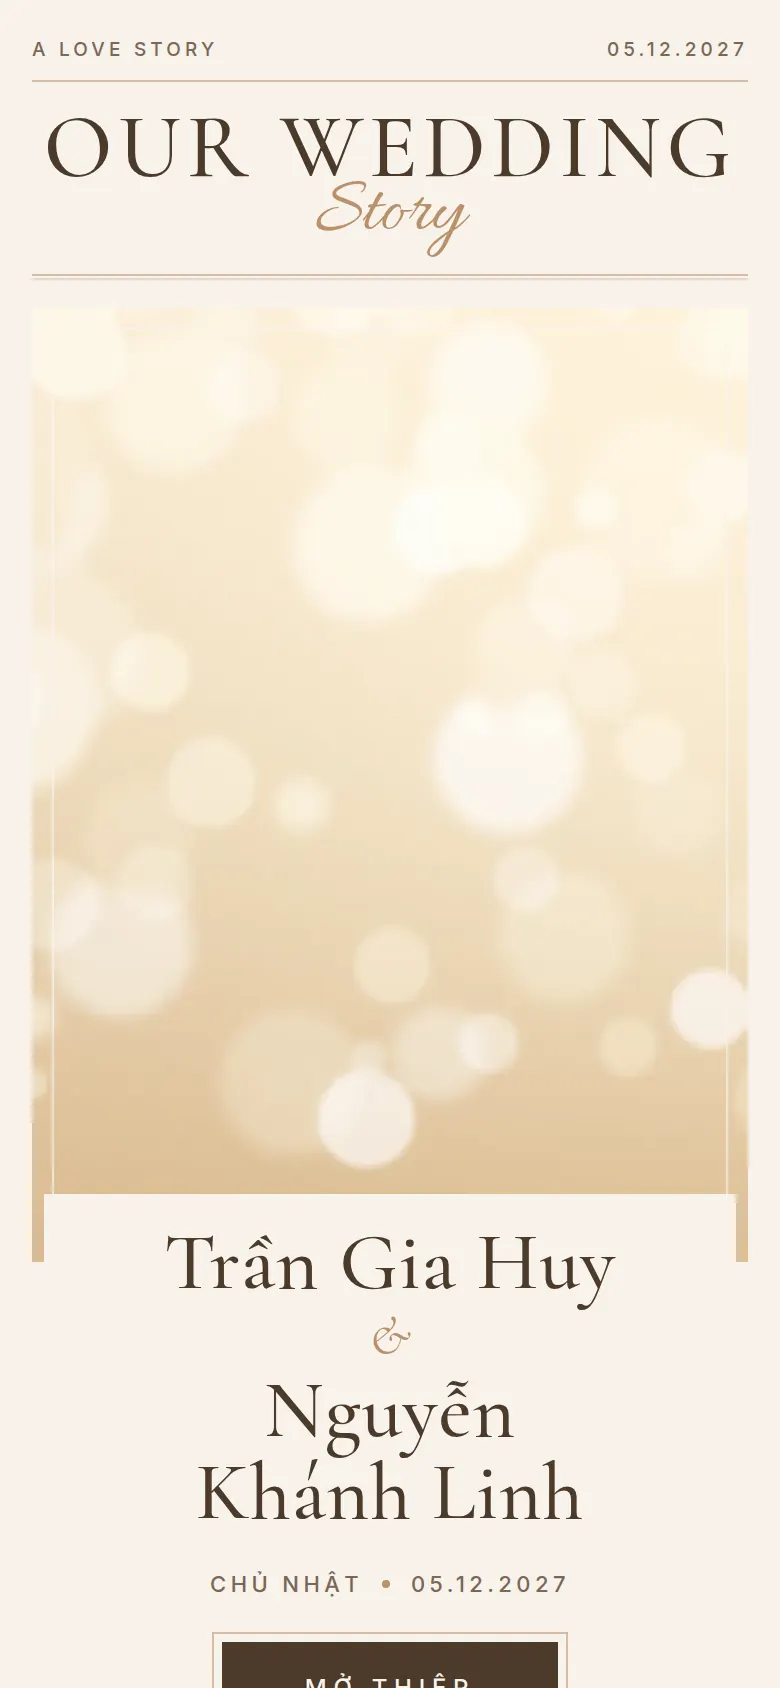
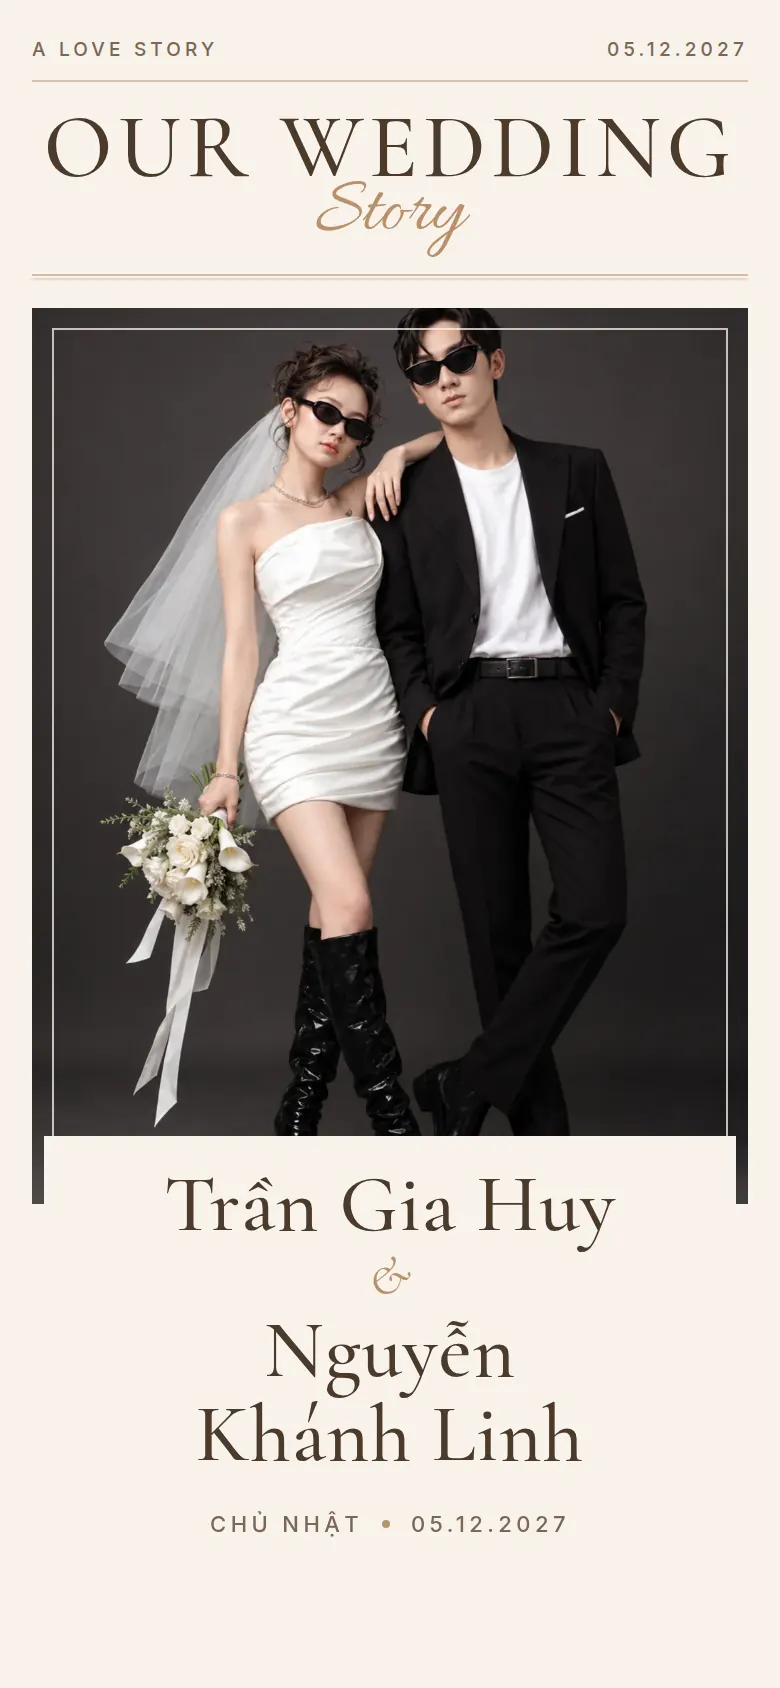
feat: fictional AI wedding photos for the Our Wedding Story showroom demo
LAUNCH-P0-04 / OWS-V2-01. Replaces the abstract mood placeholders in the
public Our Wedding Story demo with a ten-frame set of AI-generated fictional
wedding photography. Showroom demo only — never a fallback for any customer
invitation, and no renderer file is touched.

Ten source PNGs (verified against the Product Owner's photo-set.json by
pixel dimensions and SHA-256) optimized with Pillow 12.1.1 quality=86,
method=6, dimensions and orientation preserved: 17.6 MB of PNG becomes
0.64 MB of WebP. The source PNGs stay local and uncommitted; each photo
exists once on disk and slots that reuse one reference the same file.

Wired for wedding.our-wedding-story.v2 only, through
DEMO_TEMPLATE_SLOT_PHOTO_SETS and keyed by registeredRendererKey(), because
the renderer static boundary forbids the v2 key literal outside the
renderer's own files. v1 keeps the abstract mood images. Mapping, checked
against the v2 editor manifest's declared slots and maxCount: coverPhoto 01;
groomPortrait 04 and bridePortrait 03, each person-bound so a frame always
follows its own person in COMMON, GROOM and BRIDE; storyPhoto 09 (the slot
is declared LANDSCAPE); gallery all ten (no maxCount) as 05, 06, 07, 08, 02,
09, 03, 04, 01, 10, so each chunk of three keeps a portrait for the large
slot and the two landscapes fall to small slots; thankYouPhoto 10.

The two showroom screenshots are re-captured from the real v2 demo (headless
Chrome over CDP, true 390x844 viewport at 2x, demo bar hidden, WebP q78);
[…]

diff --git a/lib/showroom/__tests__/showroom-demo.test.ts b/lib/showroom/__tests__/showroom-demo.test.ts
@@ -62,8 +62,15 @@ describe("LAUNCH-P0-04 showroom demos run the real pipeline", () => {
       expect(data.sections.music).toBe(false);
       if (Object.hasOwn(DEMO_LEGACY_ROLE_PHOTO_SETS, template.rendererKey)) continue;
       expect(data.viewModel.media.portrait).toStrictEqual({});
-      expect(data.viewModel.media.templateSlots?.groomPortrait ?? []).toStrictEqual([]);
-      expect(data.viewModel.media.templateSlots?.bridePortrait ?? []).toStrictEqual([]);
+      // A person-bound portrait may come only from that renderer's own slot photo set
+      // (fictional people); a renderer without one keeps both portraits empty, because
+      // the abstract mood images must never pose as a person.
+      const slotSet = DEMO_TEMPLATE_SLOT_PHOTO_SETS[template.rendererKey];
+      const declared = (slot: string) => (slotSet?.[slot] ?? []).map((image) => `${DEMO_MEDIA_BASE_PATH}${image.file}`);
+      for (const slot of ["groomPortrait", "bridePortrait"]) {
+        const rendered = (data.viewModel.media.templateSlots?.[slot] ?? []).map((item) => (item as { url?: string }).url);
+        expect(rendered, `${template.rendererKey} ${slot}`).toStrictEqual(declared(slot));
+      }
     }
   });
 
@@ -166,22 +173,54 @@ describe("LAUNCH-P0-04 showroom demos run the real pipeline", () => {
     expect(demoCoupleFor("wedding.vietnamese-heritage.v1")).toMatchObject(DEMO_COUPLE);
   });
 
-  it("the Our Wedding Story demo runs v2 on exactly v1's abstract placeholder mapping (no new or borrowed photos)", async () => {
+  it("the Our Wedding Story demo runs v2 on its own fictional photo set, identical for every variant", async () => {
     const ows = PUBLIC_SHOWROOM_TEMPLATES.find((template) => template.templateCode === "our-wedding-story");
     expect(ows?.rendererKey).toBe("wedding.our-wedding-story.v2");
-    expect(Object.hasOwn(DEMO_TEMPLATE_SLOT_PHOTO_SETS, "wedding.our-wedding-story.v2")).toBe(false);
+    const set = DEMO_TEMPLATE_SLOT_PHOTO_SETS["wedding.our-wedding-story.v2"];
+    expect(set).toBeDefined();
+    if (set === undefined) return;
+    // v1 keeps the abstract mood images: the new photography is wired to v2 alone.
+    expect(Object.hasOwn(DEMO_TEMPLATE_SLOT_PHOTO_SETS, "wedding.our-wedding-story.v1")).toBe(false);
     expect(Object.hasOwn(DEMO_LEGACY_ROLE_PHOTO_SETS, "wedding.our-wedding-story.v2")).toBe(false);
+
+    const file = (slot: string, index = 0) => set[slot]?.[index]?.file;
+    expect(file("coverPhoto")).toBe("our-wedding-story/photos/01-cover-couple-fullbody.webp");
+    // Person-bound (OWS-01): the groom's frame is the groom's, the bride's is the bride's.
+    expect(file("groomPortrait")).toBe("our-wedding-story/photos/04-groom-portrait.webp");
+    expect(file("bridePortrait")).toBe("our-wedding-story/photos/03-bride-portrait.webp");
+    expect(file("storyPhoto")).toBe("our-wedding-story/photos/09-editorial-seated-wide.webp");
+    expect(file("thankYouPhoto")).toBe("our-wedding-story/photos/10-thank-you-couple.webp");
+    // All ten frames, each exactly once, in the approved album order.
+    expect(set.gallery?.map((image) => image.file)).toStrictEqual([
+      "our-wedding-story/photos/05-magazine-couple.webp",
+      "our-wedding-story/photos/06-camera-couple.webp",
+      "our-wedding-story/photos/07-fashion-couple-wide.webp",
+      "our-wedding-story/photos/08-intimate-veil-couple.webp",
+      "our-wedding-story/photos/02-veil-couple.webp",
+      "our-wedding-story/photos/09-editorial-seated-wide.webp",
+      "our-wedding-story/photos/03-bride-portrait.webp",
+      "our-wedding-story/photos/04-groom-portrait.webp",
+      "our-wedding-story/photos/01-cover-couple-fullbody.webp",
+      "our-wedding-story/photos/10-thank-you-couple.webp",
+    ]);
+    expect(new Set(set.gallery?.map((image) => image.file)).size).toBe(10);
+    // The slot declared LANDSCAPE gets a real landscape frame.
+    expect(set.storyPhoto?.[0]?.orientation).toBe("LANDSCAPE");
+
     for (const variant of INVITATION_VARIANTS) {
       const v2 = await buildDemoRenderData("wedding.our-wedding-story.v2", variant);
-      const v1 = await buildDemoRenderData("wedding.our-wedding-story.v1", variant);
-      expect(v2.viewModel.media.templateSlots, variant).toStrictEqual(v1.viewModel.media.templateSlots);
-      const urls = Object.values(v2.viewModel.media.templateSlots ?? {}).flat().map((item) => (item as { url?: string }).url);
+      const slots = v2.viewModel.media.templateSlots ?? {};
+      const urls = Object.values(slots).flat().map((item) => (item as { url?: string }).url);
       expect(urls.length).toBeGreaterThan(0);
-      for (const url of urls) expect(url, variant).toMatch(/^\/showroom\/demo\/mood-[\w-]+\.webp$/);
-      // Person-bound portraits stay empty: abstract images never pose as a person.
-      expect(v2.viewModel.media.templateSlots?.groomPortrait ?? []).toStrictEqual([]);
-      expect(v2.viewModel.media.templateSlots?.bridePortrait ?? []).toStrictEqual([]);
-      expect([v2.viewModel.people.primary.name, v2.viewModel.people.secondary.name]).toStrictEqual([v1.viewModel.people.primary.name, v1.viewModel.people.secondary.name]);
+      // Every frame is one of the new local WebP photographs — never a mood image.
+      for (const url of urls) expect(url, variant).toMatch(/^\/showroom\/demo\/our-wedding-story\/photos\/\d\d-[\w-]+\.webp$/);
+      expect((slots.groomPortrait ?? []).map((item) => (item as { url?: string }).url), variant).toStrictEqual([
+        "/showroom/demo/our-wedding-story/photos/04-groom-portrait.webp",
+      ]);
+      expect((slots.bridePortrait ?? []).map((item) => (item as { url?: string }).url), variant).toStrictEqual([
+        "/showroom/demo/our-wedding-story/photos/03-bride-portrait.webp",
+      ]);
+      expect((slots.gallery ?? []).length, variant).toBe(10);
     }
   });
 

diff --git a/lib/showroom/demo/demo-media.ts b/lib/showroom/demo/demo-media.ts
@@ -137,6 +137,22 @@ const RM_PHOTOS = Object.freeze(
   ),
 );
 
+/** Our Wedding Story portraits are 1086×1448 (3:4); 07 and 09 are 1448×1086 landscapes. */
+const OWS_PHOTOS = Object.freeze(
+  [
+    ["01-cover-couple-fullbody"],
+    ["02-veil-couple"],
+    ["03-bride-portrait"],
+    ["04-groom-portrait"],
+    ["05-magazine-couple"],
+    ["06-camera-couple"],
+    ["07-fashion-couple-wide", "LANDSCAPE"],
+    ["08-intimate-veil-couple"],
+    ["09-editorial-seated-wide", "LANDSCAPE"],
+    ["10-thank-you-couple"],
+  ].map(([name, orientation]) => folderPhoto("our-wedding-story", name ?? "", orientation === "LANDSCAPE" ? "LANDSCAPE" : "PORTRAIT")),
+);
+
 /** Numbered photo `n` (1-based, the file name prefix) of a set. */
 function nth(photos: readonly DemoImage[], n: number): DemoImage {
   const photo = photos[n - 1];
@@ -183,6 +199,23 @@ export const DEMO_TEMPLATE_SLOT_PHOTO_SETS: Readonly<Record<string, DemoTemplate
     // solos side by side, and the two landscapes last, leading into the Thank You photo.
     gallery: Object.freeze([6, 7, 9, 8, 1, 4, 3, 5, 2, 10].map((n) => nth(RM_PHOTOS, n))),
     thankYouPhoto: Object.freeze([nth(RM_PHOTOS, 10)]),
+  }),
+  // OWS-V2-01: the public demo runs Our Wedding Story v2. Its key literal is forbidden in
+  // lib/ by the renderer static boundary, so it is resolved from the production registry.
+  [registeredRendererKey("our-wedding-story", 2)]: Object.freeze({
+    coverPhoto: Object.freeze([nth(OWS_PHOTOS, 1)]),
+    // Person-bound (OWS-01): each portrait follows its own person, never a layout position.
+    groomPortrait: Object.freeze([nth(OWS_PHOTOS, 4)]),
+    bridePortrait: Object.freeze([nth(OWS_PHOTOS, 3)]),
+    // The slot is declared LANDSCAPE: 09 is one of the two landscape frames.
+    storyPhoto: Object.freeze([nth(OWS_PHOTOS, 9)]),
+    // All ten (the slot has no maxCount). The magazine rhythm takes them in chunks of three
+    // (one large portrait-preferred + two small) and closes on a single wide row, so each
+    // chunk here keeps a portrait for the large slot and the two landscapes (07, 09) fall to
+    // small slots. It opens on frames not already shown above, then the bride and groom solos,
+    // and ends on the cover and the Thank You frame.
+    gallery: Object.freeze([5, 6, 7, 8, 2, 9, 3, 4, 1, 10].map((n) => nth(OWS_PHOTOS, n))),
+    thankYouPhoto: Object.freeze([nth(OWS_PHOTOS, 10)]),
   }),
 });
 

diff --git a/lib/showroom/demo/ASSETS.md b/lib/showroom/demo/ASSETS.md
@@ -87,6 +87,40 @@ Wired only for `wedding.romantic-minimal.v1` through `DEMO_TEMPLATE_SLOT_PHOTO_S
 | 09-wedding-couple-steps.webp | 1024×1536 | 145 KB | a22bdc4049a3332bdeb3a6a42edd1bca83b730e1b5181184a1528ed1b8a2d673 |
 | 10-thank-you-ivory-bow.webp | 1448×1086 | 180 KB | 2e2e61c0207e64053edc8027429496a85ca18c18f9557d59d51a7ef6aa885ac4 |
 
+## Our Wedding Story demo photos — `public/showroom/demo/our-wedding-story/photos/`
+
+AI-generated **fictional** wedding photographs created for the WeddingClick showroom on 2026-10-14 from Product Owner-supplied visual references. They are newly generated people: they show no real customer, couple or wedding and must never be represented as one, or as client portfolio work. The user-supplied reference photos were style inspiration only — they are not published here, not redistributed, and no third-party watermark or logo is included. Source metadata (original file names, PNG sizes, pixel dimensions and SHA-256) is in the Product Owner's `photo-set.json` next to the PNGs.
+
+Only the WebP files below are committed and served. Pillow 12.1.1, `quality=86, method=6`, same pixel dimensions as the PNGs (portraits 1086×1448, landscapes 1448×1086), 10 source PNGs → 10 optimized WebPs, about 0.64 MB for all ten (the PNGs are about 17.6 MB). The source PNGs stay local and are not committed. Each photo exists once on disk; slots that reuse a photo reference the same file.
+
+Public showroom only — never a fallback for any customer invitation.
+
+Wired only for `wedding.our-wedding-story.v2` through `DEMO_TEMPLATE_SLOT_PHOTO_SETS` (`demo-media.ts`), keyed by `registeredRendererKey("our-wedding-story", 2)` because the renderer static boundary forbids the v2 key literal outside the renderer's own files. v1 keeps the abstract mood images. Mapping, against the v2 editor manifest's declared slots and `maxCount`:
+
+| Slot | maxCount | Photo |
+|---|---|---|
+| `coverPhoto` | 1 | 01 |
+| `groomPortrait` (person-bound) | 1 | 04 — the groom's own frame |
+| `bridePortrait` (person-bound) | 1 | 03 — the bride's own frame |
+| `storyPhoto` (declared LANDSCAPE) | 1 | 09 |
+| `gallery` | null (no limit) | all ten: 05, 06, 07, 08, 02, 09, 03, 04, 01, 10 |
+| `thankYouPhoto` | 1 | 10 |
+
+The person-bound portraits follow OWS-01: each photo stays with its own person in COMMON, GROOM and BRIDE; only the display order changes. The gallery uses all ten because the slot declares no `maxCount`. Its magazine rhythm takes the list in chunks of three (one large, portrait-preferred, plus two small) and closes on a single wide row, so each chunk keeps a portrait for the large slot and the two landscape frames (07, 09) fall to small slots. The renderer is unchanged: its tiles crop to the frame and the viewer shows every photo whole, landscapes included.
+
+| File | Size | Bytes | SHA-256 |
+|---|---|---|---|
+| 01-cover-couple-fullbody.webp | 1086×1448 | 68 KB | 774a3112f84690d580687fbea81b1ca9310282112796c5278d40f2d582daf97d |
+| 02-veil-couple.webp | 1086×1448 | 67 KB | d1aa8677474f13441ef46e5fabc8027a26732c81c0f29bcd0b66d950ce6a570d |
+| 03-bride-portrait.webp | 1086×1448 | 54 KB | 0fa7da9ce17dfdcf5cc22d21e51c435d79a7ae059bc15ad8d929a6d50ceea3f0 |
+| 04-groom-portrait.webp | 1086×1448 | 29 KB | 730b0acc3143e71cb111205583c24d2e42812ff54059e59782d111c6cd2a8b67 |
+| 05-magazine-couple.webp | 1086×1448 | 65 KB | 4ea1c67fa2bfa4b58cc8b5bd5bc6c78e0728c0274dbc00b83ca08e5e49f97d2a |
+| 06-camera-couple.webp | 1086×1448 | 71 KB | cea75470fecb559ef347af291d168b77f3c33251a19d1726af5f5e2246967767 |
+| 07-fashion-couple-wide.webp | 1448×1086 | 52 KB | 19f20ca631321a2fed7629c0d55c644d8bcbbbb10a8540014bd8e8a7c1f5beb1 |
+| 08-intimate-veil-couple.webp | 1086×1448 | 100 KB | 1ba80e8feb4a3a3abcbfd4fa7a7805f3ed275f138c8382baa32af0122fa53ca1 |
+| 09-editorial-seated-wide.webp | 1448×1086 | 92 KB | 9e106e979ecd27edc9e94ef6af2c47a2b3b3f216a3441844ccc56735643b55c1 |
+| 10-thank-you-couple.webp | 1086×1448 | 55 KB | 8b776ceeb7531caca8c1ea6d671d3d56deb5713faf21a7ad0ef0e2751fe09dbe |
+
 ## Template screenshots — `public/showroom/templates/`
 
 Real screenshots of the public demo pages (`/mau-thiep/<code>`, demo bar removed) from a local production build, headless Chrome, 390×844 CSS px at 2× (780×1688), WebP quality 78. `<code>-cover.webp` is the closed opening screen; `<code>-inside.webp` is an inner section after opening. Re-capture whenever a renderer version, the demo data or the demo images change, and for every new template.
@@ -99,8 +133,8 @@ Real screenshots of the public demo pages (`/mau-thiep/<code>`, demo bar removed
 | vietnamese-heritage-inside.webp | families, portrait cluster | 2a801e4d0396867f6c95232d0271c59e9ab44be55b832000ff734045fc65beac |
 | romantic-minimal-cover.webp | — | baaa1fd05977ce4ffd559fe9b4af43607dff90759f27019ee5e1d78a17dfa15c |
 | romantic-minimal-inside.webp | Save The Date photo rising from the envelope | df6b452d4b804b2782ac6446132e9628568f45c41edef00904916248d3025833 |
-| our-wedding-story-cover.webp | — | c816fc8764546953dcde388d2d7d8948ef35ea205b19ee8f705dbaccf23c5e74 |
-| our-wedding-story-inside.webp | invitation card | b31ed26be213b56d7c14daf0680a0df794a6a9bb9227ca67c863f1c2ed2a719a |
+| our-wedding-story-cover.webp | — | 9a001cbe65d497ba1329bae586d3cfdfe9ded8cf012cf96603c617eefaf05b93 |
+| our-wedding-story-inside.webp | invitation card | 724b2888147fe787dda0c44ce1d9434b9ab4c27c7b2657dc2a53aa5cbe6562a7 |
 
 ## Social share image — `public/showroom/og-weddingclick.jpg`
 
